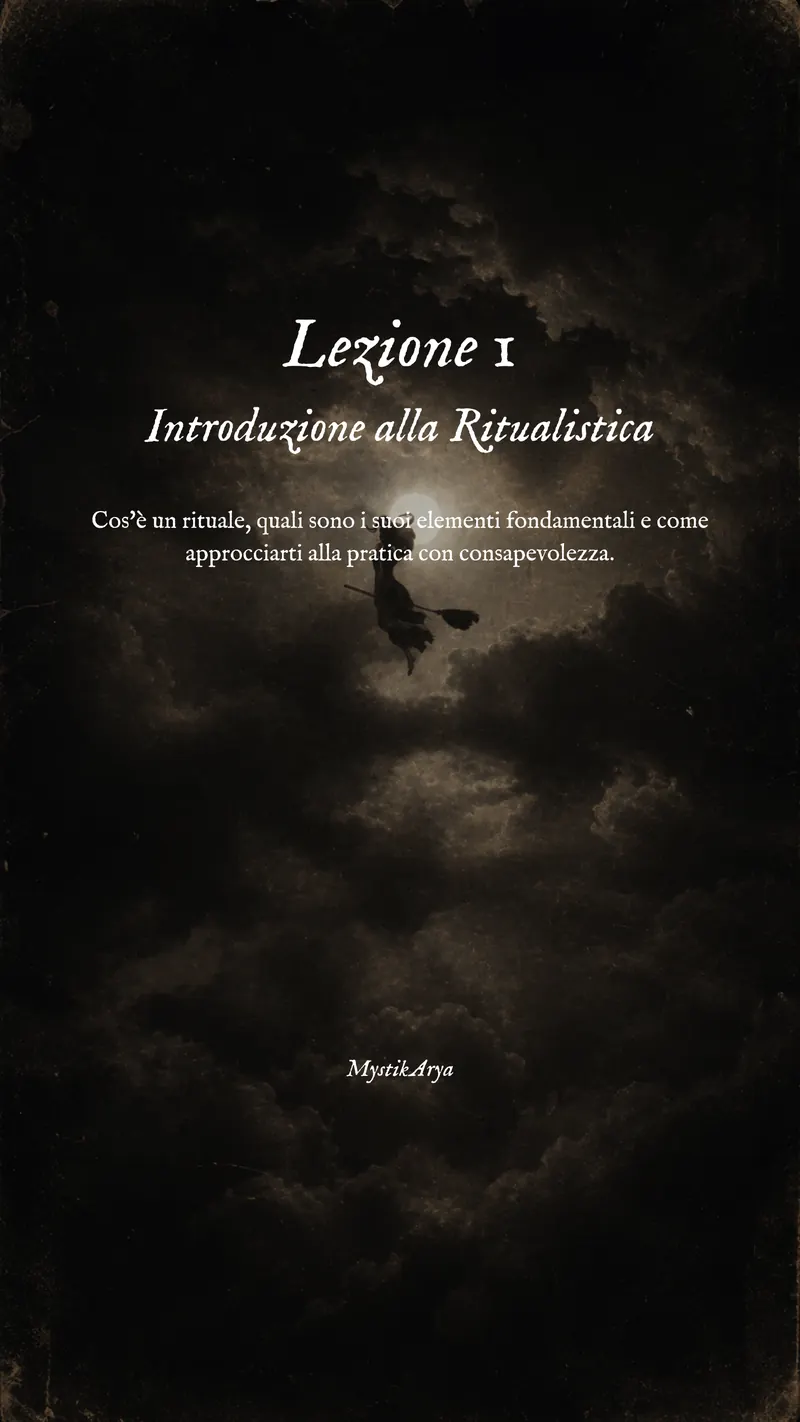
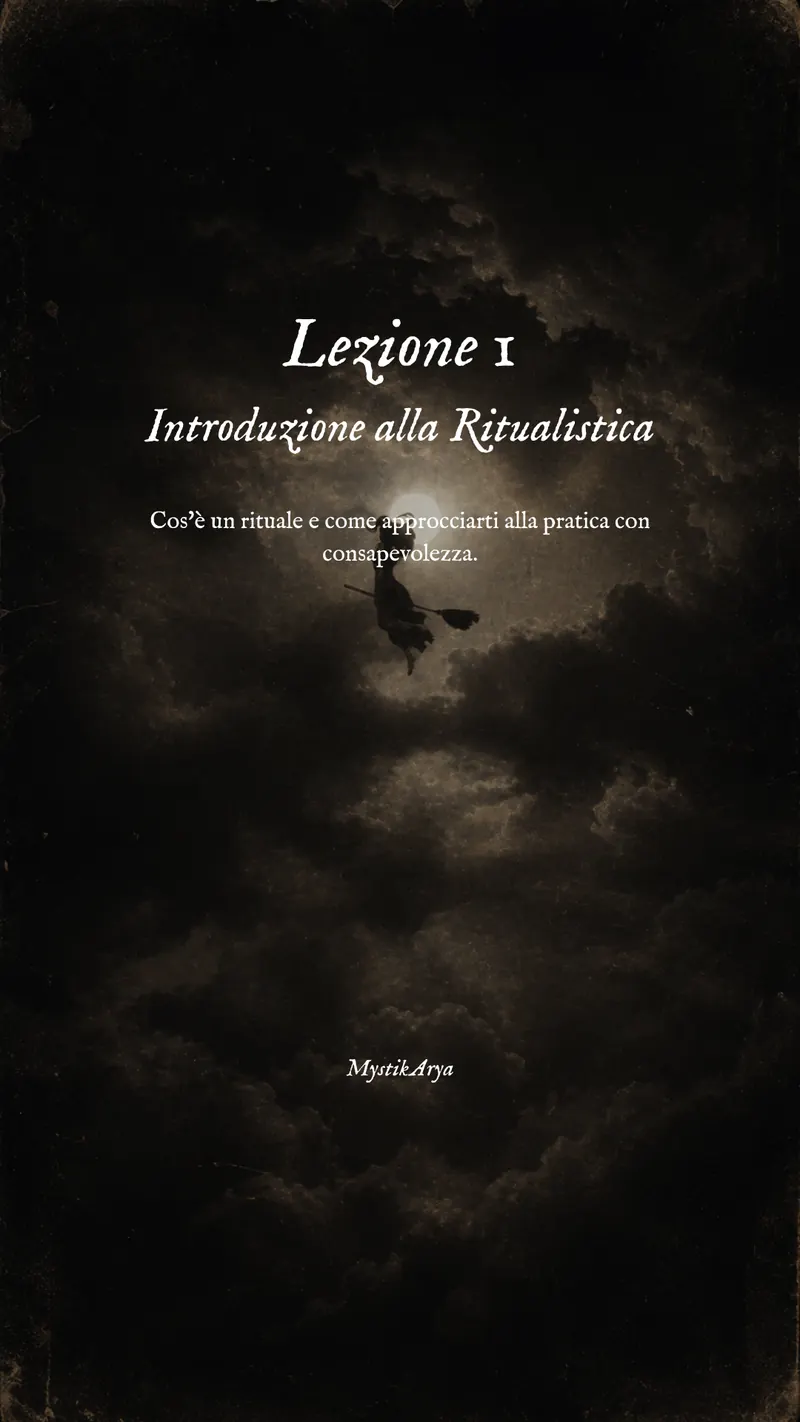
Add files via upload

Changed region(s): [[0.125, 0.3404, 0.875, 0.4023], [0.4375, 0.7426, 0.5625, 0.7736]]

diff --git a/script.js b/script.js
@@ -58,12 +58,7 @@ function startScreen() {
             <h1 class="corso" style="line-height:0.9!important;">Corso di
             <br>STREGONERIA</h1>
 
-            <br><p>
-                Benvenuta/o!
-                <br>Oggi inizia il tuo percorso magico.
-                <br>Segui le lezioni e affronta il test finale
-                <br>per ottenere il Certificato di Stregoneria!
-            </p>
+            <br>
             <button id="lessonsButton">
                 LEZIONI
             </button>
@@ -110,8 +105,8 @@ function showLessons() {
     changeBackground("lessons");
 
     const lessons = [
-        { title: "1. Introduzione alla Ritualistica",        url: "https://youtu.be/KF_WKo94QVY" },
-        { title: "2. Le principali tradizioni",              url: "https://youtu.be/ghTIrXwCwwg" },
+        { title: "1. Introduzione alla Ritualistica",        url: "https://youtu.be/BBVlB_I_s1g" },
+        { title: "2. Le principali tradizioni",              url: "https://youtu.be/97ym9PZi88Q" },
         { title: "3. Stregoneria evocativa e non evocativa", url: "https://youtu.be/-rYgPhRFruI" },
         { title: "4. I falsi miti sulla Stregoneria",        url: "https://youtu.be/qSgCu4ton_I" },
         { title: "5. Il libero arbitrio",                    url: "https://youtu.be/eFCt_T1A4E4" },
